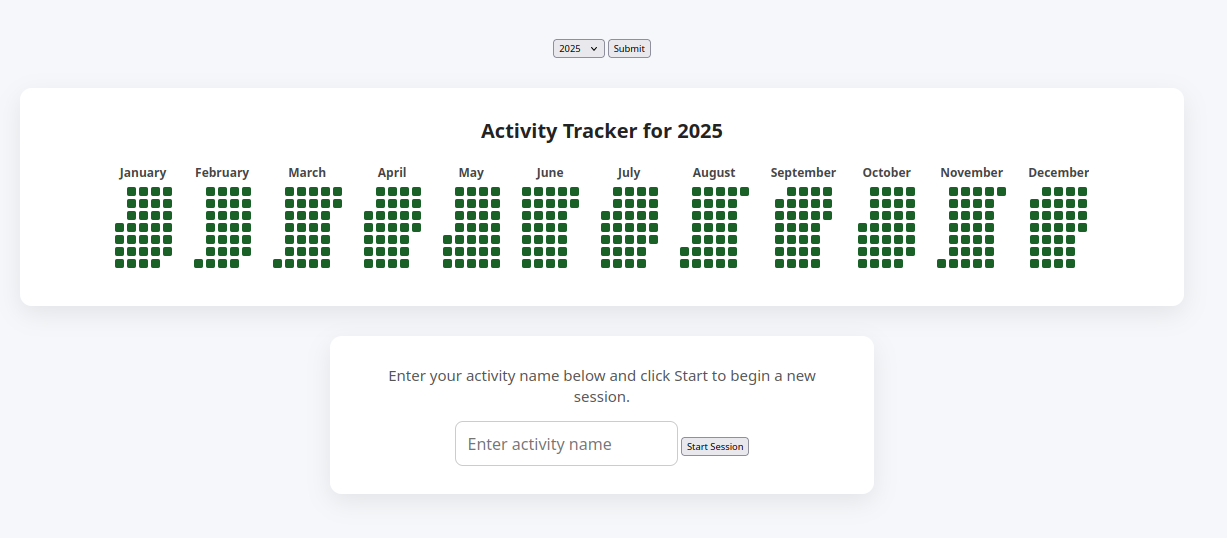
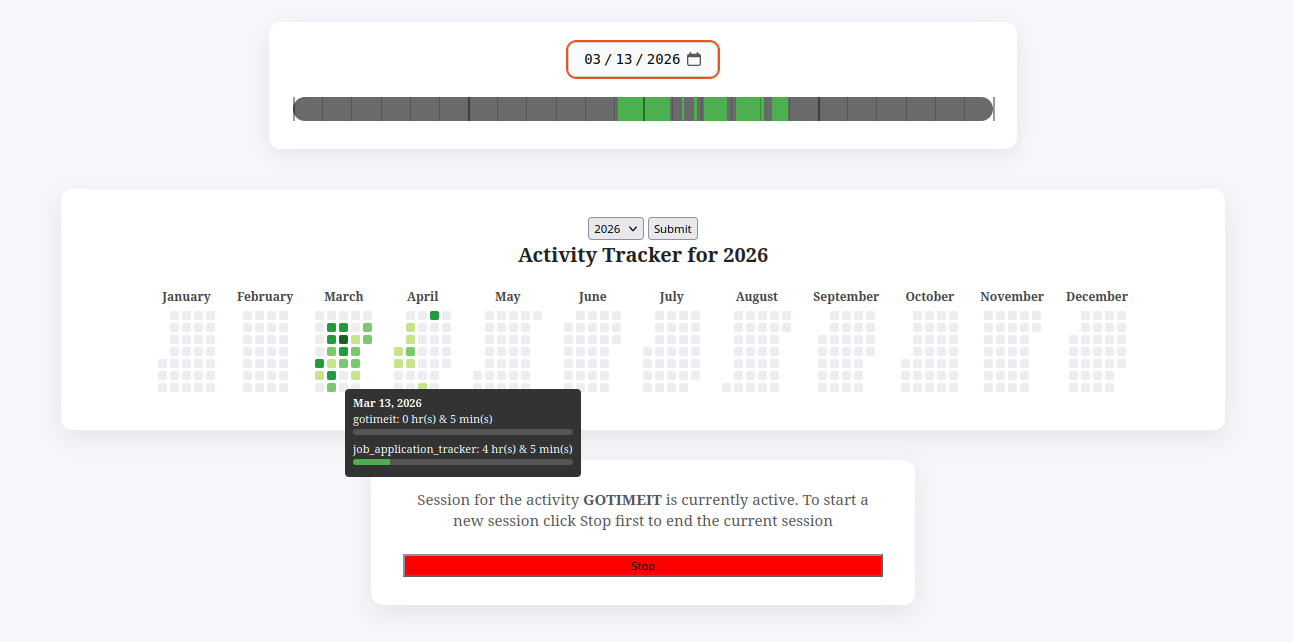
feat: better display of activity sessions in a tooltip

Changed region(s): [[0.0929, 0.2974, 0.8981, 0.9219], [0.2168, 0.0595, 0.7742, 0.2677]]

diff --git a/renderer.go b/renderer.go
@@ -98,7 +98,7 @@ const HOME_PAGE_HTML = `
     <style>
       body {
         margin: 0;
-        font-family: -apple-system, BlinkMacSystemFont, "Segoe UI", Roboto, Arial, sans-serif;
+        font-family: Arial;
         background: #f5f7fa;
         padding: 40px 20px;
       }
@@ -178,7 +178,7 @@ const HOME_PAGE_HTML = `
         color: #fff;
         padding: 6px 10px;
         font-size: 12px;
-        border-radius: 6px;
+        border-radius: 4px;
         white-space: nowrap;
         pointer-events: none;
         opacity: 0;
@@ -276,14 +276,38 @@ const HOME_PAGE_HTML = `
 
       .tooltip table {
         border-collapse: collapse;
+        margin-top: 4px;
       }
 
       .tooltip td {
         padding: 2px 6px;
       }
 
+      .tooltip-row {
+        margin-bottom: 6px;
+      }
+
+      .tooltip-text {
+        font-size: 11px;
+        margin-bottom: 2px;
+      }
+
       .day:hover .tooltip {
         display: block;
+      }
+
+      .bar-container {
+        width: 100%;
+        height: 6px;
+        background-color: #555;
+        border-radius: 3px;
+        overflow: hidden;
+      }
+
+      .bar-fill {
+        height: 100%;
+        background-color: #4caf50;
+        width: 0%;
       }
 
       /* css for the session card(start/stop) */
@@ -365,10 +389,19 @@ const HOME_PAGE_HTML = `
                     {{ range $index, $dayActivities := $monthData.DA }}
                       <div class="day level-{{ $dayActivities.Level }}"
                            data-tooltip='
-                             <strong>{{ formatDate $dayActivities.Date }}</strong><br>
-                             {{range $activity, $hours := $dayActivities.Activities}}
-                               {{$activity}}: {{$hours}} hrs<br>
-                             {{end}}
+                           <strong>{{ formatDate $dayActivities.Date }}</strong>
+                            <div class="tooltip-table">
+                              {{range $activity, $sessionDuration := $dayActivities.Activities}}
+                                <div class="tooltip-row">
+                                  <div class="tooltip-text">
+                                    {{$activity}}: {{$sessionDuration.DurationStr}}
+                                  </div>
+                                  <div class="bar-container">
+                                    <div class="bar-fill" style="width: {{$sessionDuration.DurationPercentage}}%;"></div>
+                                  </div>
+                                </div>
+                              {{end}}
+                            </div>
                            ' style="grid-row-start: {{ rowStart $monthData.Offset  $index }};">
                       </div>
                     {{ end }}
@@ -590,10 +623,19 @@ const ACTIVITY_CHART_HTML = `
           {{ range $index, $dayActivities := $monthData.DA }}
             <div class="day level-{{ $dayActivities.Level }}"
                  data-tooltip='
-                   <strong>{{ formatDate $dayActivities.Date }}</strong><br>
-                   {{range $activity, $hours := $dayActivities.Activities}}
-                     {{$activity}}: {{$hours}} hrs<br>
-                   {{end}}
+                  <strong>{{ formatDate $dayActivities.Date }}</strong>
+                  <div class="tooltip-table">
+                    {{range $activity, $sessionDuration := $dayActivities.Activities}}
+                      <div class="tooltip-row">
+                        <div class="tooltip-text">
+                          {{$activity}}: {{$sessionDuration.DurationStr}}
+                        </div>
+                        <div class="bar-container">
+                          <div class="bar-fill" style="width: {{$sessionDuration.DurationPercentage}}%;"></div>
+                        </div>
+                      </div>
+                    {{end}}
+                  </div>
                  ' style="grid-row-start: {{ rowStart $monthData.Offset  $index }};">
             </div>
           {{ end }}

diff --git a/db.go b/db.go
@@ -24,14 +24,27 @@ const create_activitysessions_table = `CREATE TABLE IF NOT EXISTS activitysessio
 	stop_time TIMESTAMP
 );`
 
+// const get_activity_sessions_for_today = `
+// 	SELECT activity, ROUND(SUM(stop_time-start_time)*1.0/3600, 2) as hours
+// 	FROM activitysessions
+// 	WHERE date = ? AND stop_time is NOT NULL
+// 	GROUP BY activity;`
+
+// const get_activity_sessions_everyday_for_year = `
+// 	SELECT date, activity, ROUND(SUM(stop_time-start_time)*1.0/3600, 2) as hours
+// 	FROM activitysessions
+// 	WHERE strftime('%Y', date) = ? AND stop_time is NOT NULL
+// 	GROUP BY date, activity
+// 	ORDER BY date;`
+
 const get_activity_sessions_for_today = `
-	SELECT activity, ROUND(SUM(stop_time-start_time)*1.0/3600, 2) as hours 
+	SELECT activity, SUM(stop_time-start_time)*1.0/60 as minutes 
 	FROM activitysessions 
 	WHERE date = ? AND stop_time is NOT NULL 
 	GROUP BY activity;`
 
 const get_activity_sessions_everyday_for_year = `
-	SELECT date, activity, ROUND(SUM(stop_time-start_time)*1.0/3600, 2) as hours 
+	SELECT date, activity, SUM(stop_time-start_time)*1.0/60 as minutes 
 	FROM activitysessions 
 	WHERE strftime('%Y', date) = ? AND stop_time is NOT NULL
 	GROUP BY date, activity
@@ -202,6 +215,7 @@ func getTimeSpentOnEachActivityFor(date string) ([]ActivitySession, error) {
 
 	for rows.Next() {
 		var activitySession ActivitySession
+		var hours, minutes int
 		err = rows.Scan(
 			&activitySession.Activity,
 			&activitySession.Duration,
@@ -209,6 +223,14 @@ func getTimeSpentOnEachActivityFor(date string) ([]ActivitySession, error) {
 		if err != nil {
 			return nil, err
 		}
+		hours = int(activitySession.Duration / 60)
+		minutes = int(activitySession.Duration) % 60
+		if minutes > 0 {
+			activitySession.DurationStr = fmt.Sprintf("%d hr(s) & %d min(s)", hours, minutes)
+		} else {
+			activitySession.DurationStr = fmt.Sprintf("%d hr(s)", hours)
+		}
+
 		sessions = append(sessions, activitySession)
 	}
 	return sessions, nil
@@ -229,6 +251,7 @@ func getTimeSpentOnEachActivityEverydayForYear(year string) ([]ActivitySession, 
 
 	for rows.Next() {
 		var activitySession ActivitySession
+		var hours, minutes int
 		err = rows.Scan(
 			&activitySession.Date,
 			&activitySession.Activity,
@@ -236,6 +259,13 @@ func getTimeSpentOnEachActivityEverydayForYear(year string) ([]ActivitySession, 
 		)
 		if err != nil {
 			return nil, err
+		}
+		hours = int(activitySession.Duration / 60)
+		minutes = int(activitySession.Duration) % 60
+		if minutes > 0 {
+			activitySession.DurationStr = fmt.Sprintf("%d hr(s) & %d min(s)", hours, minutes)
+		} else {
+			activitySession.DurationStr = fmt.Sprintf("%d hr(s)", hours)
 		}
 		sessions = append(sessions, activitySession)
 	}

diff --git a/helpers.go b/helpers.go
@@ -140,11 +140,15 @@ func updateChartDataForCurrentYear(date string) error {
 	if err != nil {
 		return err
 	}
-	activities := make(map[string]float32)
+	activities := make(map[string]SessionDuration)
 	totalHours := float32(0)
 	for _, activitySession := range todaysSummary {
-		activities[activitySession.Activity] = activitySession.Duration
-		totalHours += activitySession.Duration
+		sessionDuration := SessionDuration{
+			DurationPercentage: int(activitySession.Duration * 100 / 1440),
+			DurationStr:        activitySession.DurationStr,
+		}
+		activities[activitySession.Activity] = sessionDuration
+		totalHours += (activitySession.Duration / 60)
 	}
 
 	t, err := time.Parse("2006-01-02", date)
@@ -171,14 +175,18 @@ func transformActiveSessionsToActivityChartData(year int, activitySessions []Act
 		if !OK {
 			da = &DayActivities{
 				Date:       as.Date,
-				Activities: make(map[string]float32),
+				Activities: make(map[string]SessionDuration),
 				TotalHours: 0,
 				Level:      0,
 			}
 			daMap[as.Date] = da
 		}
-		da.Activities[as.Activity] = as.Duration
-		da.TotalHours += as.Duration
+		sessionDuration := SessionDuration{
+			DurationPercentage: int(as.Duration * 100 / 1440),
+			DurationStr:        as.DurationStr,
+		}
+		da.Activities[as.Activity] = sessionDuration
+		da.TotalHours += (as.Duration / 60)
 		da.Level = getLevel(da.TotalHours)
 	}
 

diff --git a/datastructures.go b/datastructures.go
@@ -6,15 +6,27 @@ const ErrStartSession = "a session is already in progress. Please end the curren
 
 var ErrEndSession = "no current session in progress"
 
+// type ActivitySession struct {
+// 	Date     string
+// 	Activity string
+// 	Duration float32
+// }
+
 type ActivitySession struct {
-	Date     string
-	Activity string
-	Duration float32
+	Date        string
+	Activity    string
+	Duration    float32
+	DurationStr string
+}
+
+type SessionDuration struct {
+	DurationPercentage int
+	DurationStr        string
 }
 
 type DayActivities struct {
 	Date       string
-	Activities map[string]float32
+	Activities map[string]SessionDuration
 	TotalHours float32
 	Level      int
 }
